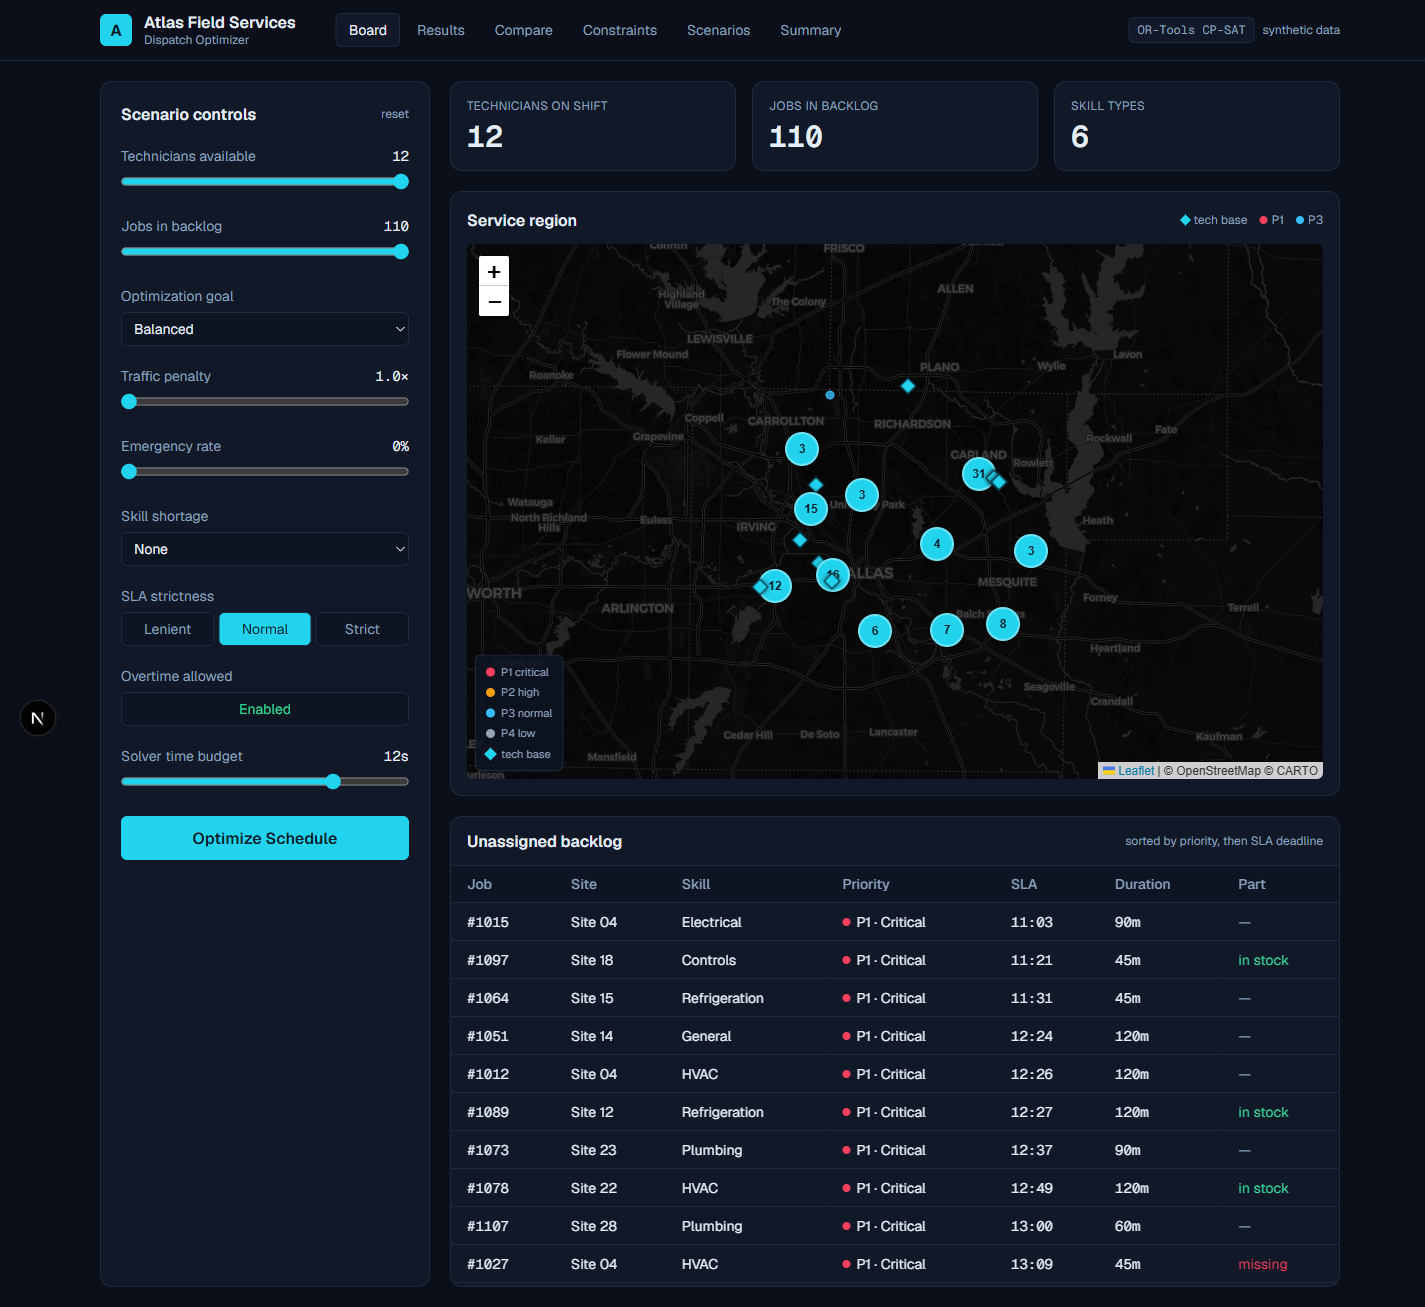
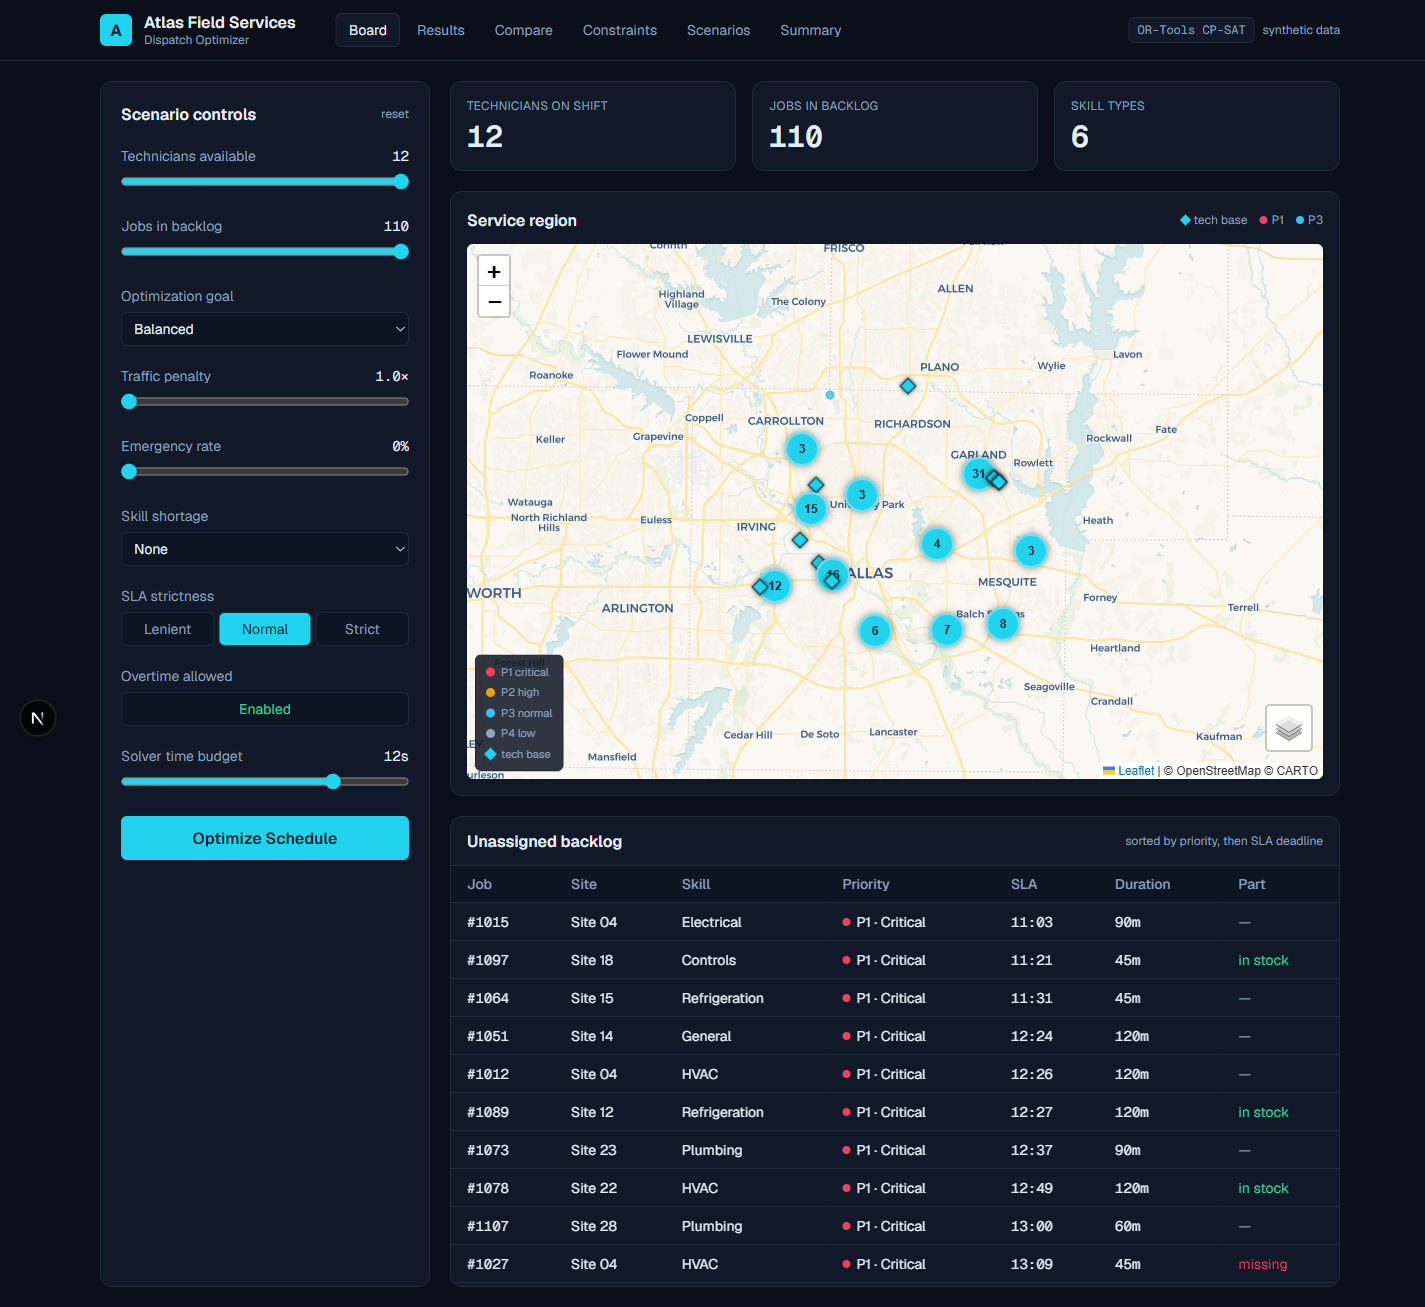
feat(frontend): colorful basemap + Streets/Satellite/Dark layer switcher
Default basemap is now CartoDB Voyager (colored roads, water, parks) instead of
the monochrome dark tiles. A layer control (bottom-right) switches between
Streets, Satellite (Esri imagery + street labels), and the original Dark theme.
All free, no API key. Dark-themed the layers control.

Changed region(s): [[0.3088, 0.1836, 0.9263, 0.6121]]

diff --git a/frontend/components/LeafletMap.tsx b/frontend/components/LeafletMap.tsx
@@ -97,11 +97,34 @@ export default function LeafletMap({ technicians, jobs, routes }: Props) {
       await import("leaflet.markercluster");
       if (!active || !elRef.current || mapRef.current) return;
       const map = L.map(elRef.current, { zoomControl: true });
-      L.tileLayer("https://{s}.basemaps.cartocdn.com/dark_all/{z}/{x}/{y}{r}.png", {
-        attribution: "&copy; OpenStreetMap &copy; CARTO",
-        subdomains: "abcd",
-        maxZoom: 19,
-      }).addTo(map);
+
+      // Free, no-key basemaps. Colorful "Streets" is the default; a switcher
+      // lets you flip to Satellite or the original Dark theme.
+      const streets = L.tileLayer(
+        "https://{s}.basemaps.cartocdn.com/rastertiles/voyager/{z}/{x}/{y}{r}.png",
+        { attribution: "&copy; OpenStreetMap &copy; CARTO", subdomains: "abcd", maxZoom: 19 },
+      );
+      const satellite = L.tileLayer(
+        "https://server.arcgisonline.com/ArcGIS/rest/services/World_Imagery/MapServer/tile/{z}/{y}/{x}",
+        { attribution: "Tiles &copy; Esri", maxZoom: 19 },
+      );
+      const labels = L.tileLayer(
+        "https://{s}.basemaps.cartocdn.com/rastertiles/voyager_only_labels/{z}/{x}/{y}{r}.png",
+        { attribution: "", subdomains: "abcd", maxZoom: 19, pane: "shadowPane" },
+      );
+      const dark = L.tileLayer(
+        "https://{s}.basemaps.cartocdn.com/dark_all/{z}/{x}/{y}{r}.png",
+        { attribution: "&copy; OpenStreetMap &copy; CARTO", subdomains: "abcd", maxZoom: 19 },
+      );
+      streets.addTo(map);
+      // Pair street labels with satellite imagery so roads stay readable.
+      const satelliteHybrid = L.layerGroup([satellite, labels]);
+      L.control.layers(
+        { Streets: streets, Satellite: satelliteHybrid, Dark: dark },
+        {},
+        { position: "bottomright", collapsed: true },
+      ).addTo(map);
+
       map.setView([32.85, -96.75], 11);
       mapRef.current = map;
       layerRef.current = L.layerGroup().addTo(map);

diff --git a/frontend/app/globals.css b/frontend/app/globals.css
@@ -70,6 +70,17 @@ input[type="range"] { accent-color: var(--accent); }
   background: var(--panel); color: var(--foreground); border-color: var(--border);
 }
 .leaflet-bar a:hover { background: var(--panel-2); }
+.leaflet-control-layers {
+  background: var(--panel); color: var(--foreground);
+  border: 1px solid var(--border); border-radius: 0.5rem;
+  box-shadow: 0 6px 18px rgba(0,0,0,.4);
+}
+.leaflet-control-layers-toggle {
+  background-color: var(--panel);
+  filter: invert(1) hue-rotate(180deg) brightness(1.2);
+}
+.leaflet-control-layers-expanded { padding: 8px 10px; font-size: 12px; }
+.leaflet-control-layers label { display: flex; align-items: center; gap: 6px; margin: 2px 0; }
 
 /* popup content layout */
 .map-pop { min-width: 168px; }
